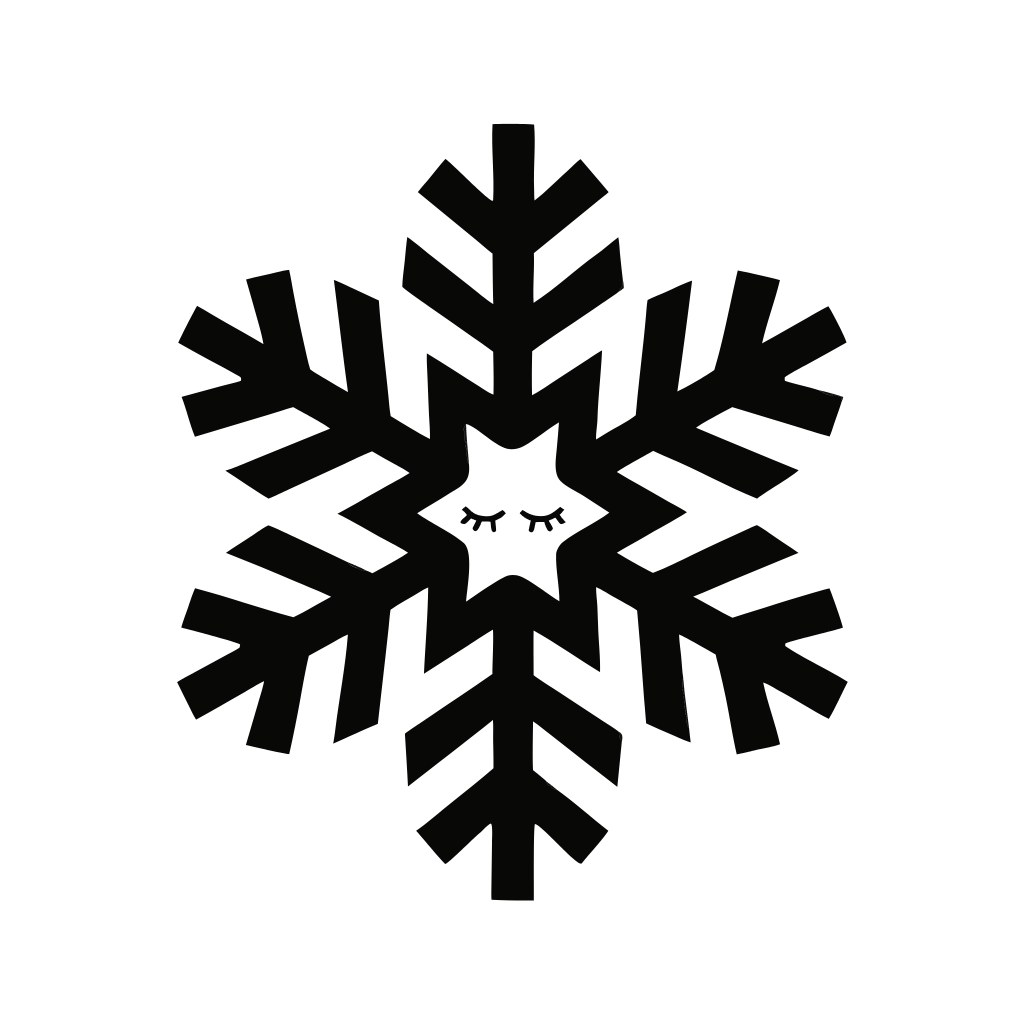
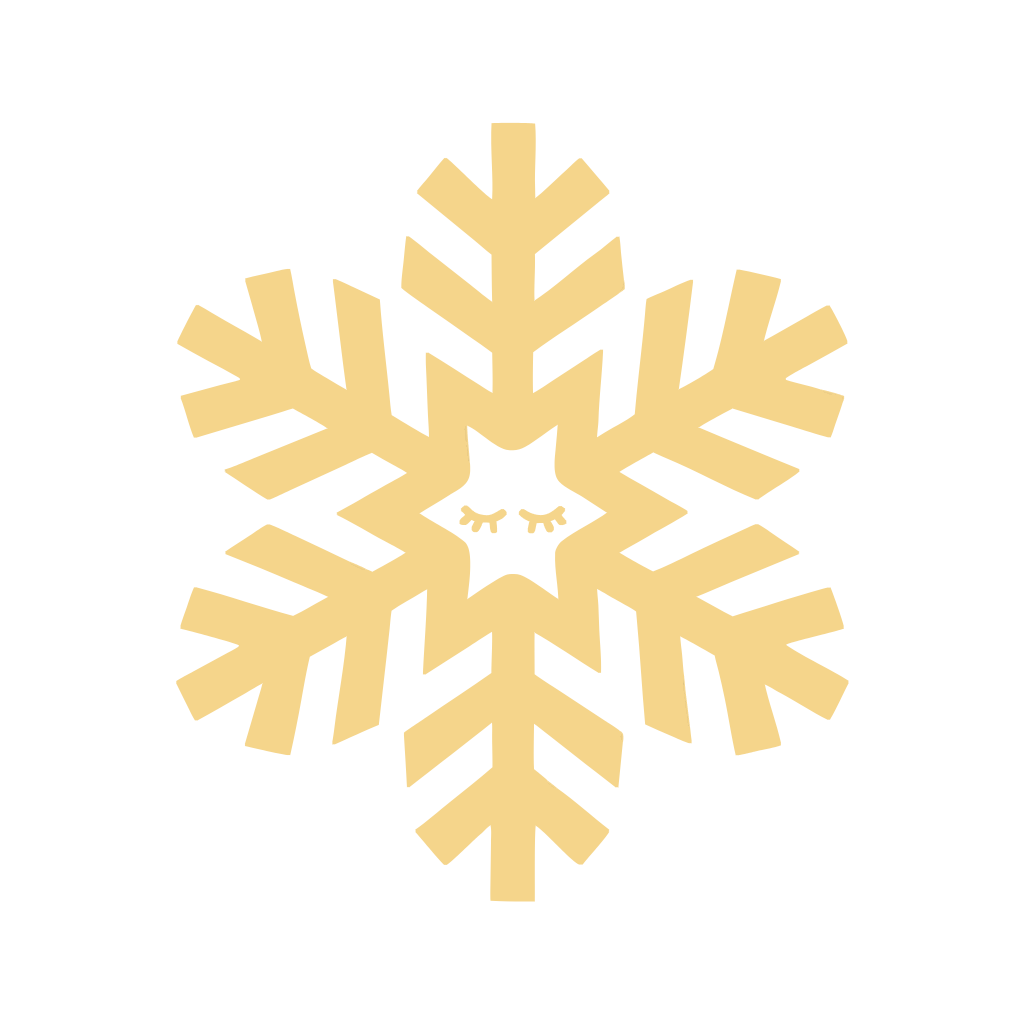
Update companion sprite colors

Changed region(s): [[0.1562, 0.0938, 0.8438, 0.9062]]

diff --git a/style.css b/style.css
@@ -44,6 +44,8 @@ body {
         opacity .6s ease;
 
     filter:
+   
+
     drop-shadow(
         0 0 8px rgba(245,213,139,.9)
     )
@@ -967,16 +969,16 @@ nav a:hover {
 
     position: absolute;
 
-    width: 8px;
-    height: 8px;
+    width: 4px;
+    height: 4px;
 
     border-radius: 50%;
 
     background: rgba(245,213,139,.9);
 
     box-shadow:
-        0 0 8px rgba(245,213,139,.8),
-        0 0 20px rgba(245,213,139,.6);
+        0 0 4px rgba(245,213,139,.8),
+        0 0 10px rgba(245,213,139,.6);
 
     pointer-events: none;
 